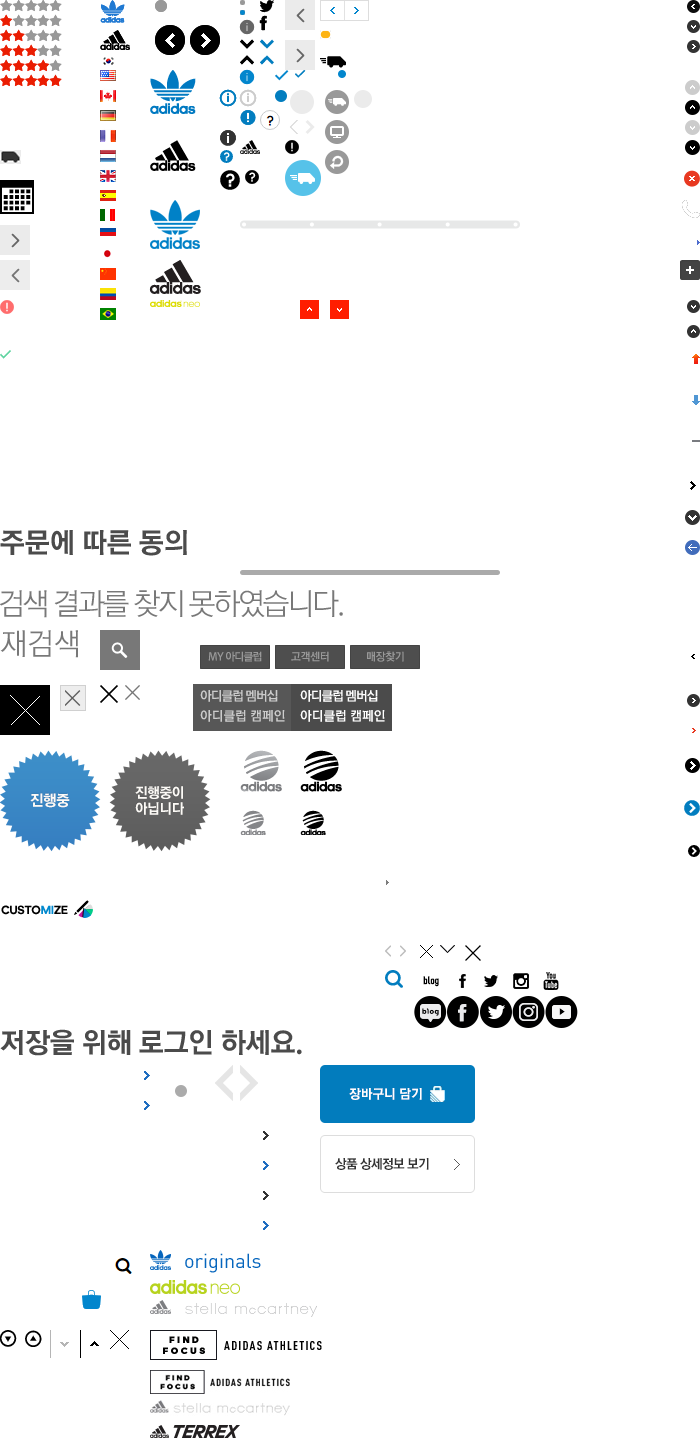
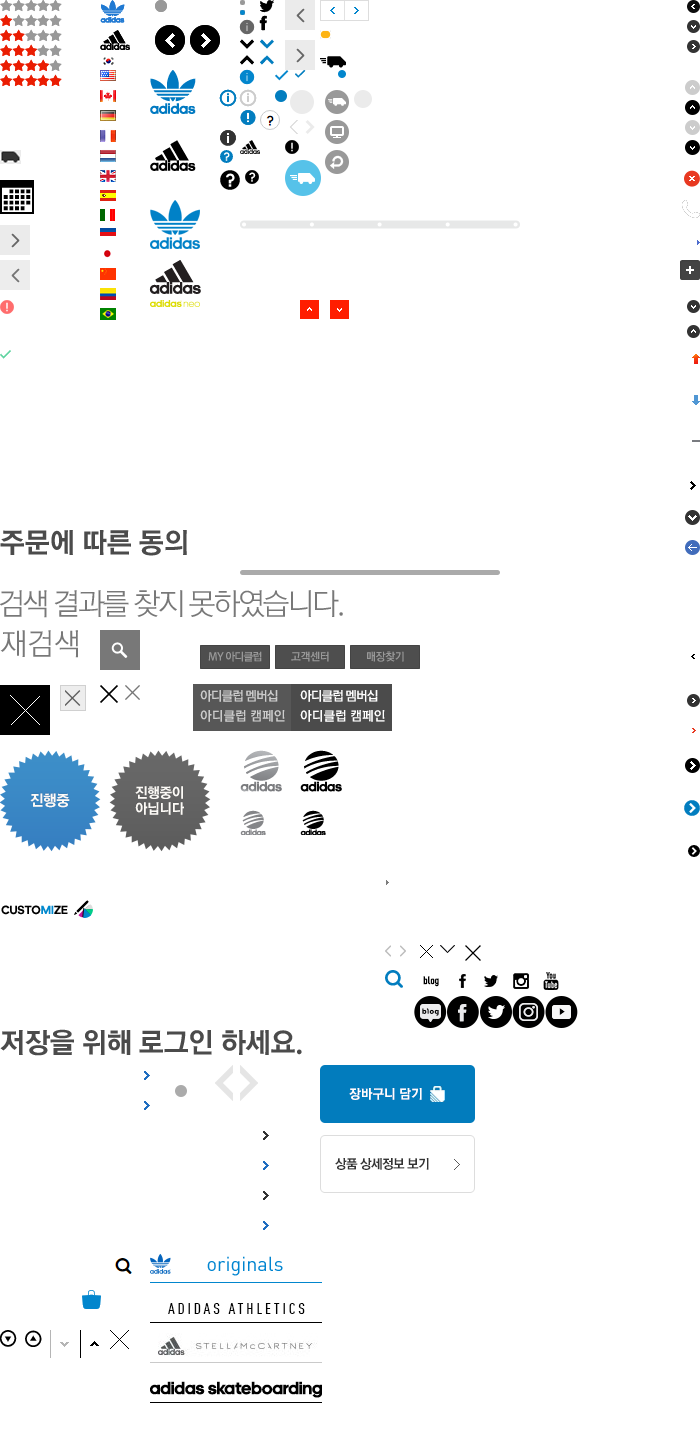
adidas - gnb brands 수정

Changed region(s): [[0.21, 0.8567, 0.45, 1.0]]

diff --git a/app/html/adidas/main_bak_180105.html b/app/html/adidas/main_bak_180105.html
@@ -965,15 +965,18 @@
 						<a href="#">BRANDS</a>
 						<div class="depth2_contents">
 							<div class="ct950">
-								<div class="ctgr_box">								
+								<div class="ctgr_box">
+									<!--
+									170424
+									* col_17 => col_14 로 클래스명 변경
+									  -->
 									<div class="box img_box col_14 originals">
 										<dl>
 											<dt>
 												<a href="#"><span class="spt_bg">Originals</span></a>
 											</dt>
 											<dd>
-												<!-- 180105 브랜드 텍스트 이미지 추가및 코드 파일명수정 -->
-												<div class="img"><a href="#"><img src="/images/adidas/temp/gnb_brands_w01.jpg" alt="" /></a></div>
+												<div class="img"><a href="#"><img src="/images/adidas/temp/gnb_brands_01.jpg" alt="" /></a></div>
 												<ul>
 													<li class="depth3_wrapper">
 														<a href="#">신발</a>
@@ -1004,15 +1007,18 @@
 										</dl>
 									</div>
 									<!-- //box -->
-									
+
+									<!--
+									170424
+									* col_17 => col_14 로 클래스명 변경
+									  -->
 									<div class="box img_box col_14 zne">
 										<dl>
 											<dt>
 												<a href="#"><span class="spt_bg">FIND FOCUS</span></a>
 											</dt>
 											<dd>
-												<!-- 180105 브랜드 텍스트 이미지 추가및 코드 파일명수정 -->
-												<div class="img"><a href="#"><img src="/images/adidas/temp/gnb_brands_w02.png" alt="" /></a></div>
+												<div class="img"><a href="#"><img src="/images/adidas/temp/gnb_brands_02.jpg" alt="" /></a></div>
 												<ul>
 													<li class="depth3_wrapper">
 														<a href="#">신발</a>
@@ -1044,16 +1050,19 @@
 											</dd>
 										</dl>
 									</div>
-									<!-- //box -->
-								
+
+
+									<!--
+									170424
+									* col_17 => col_14 로 클래스명 변경
+									  -->
 									<div class="box img_box col_14 stella">
 										<dl>
 											<dt>
 												<a href="#"><span class="spt_bg">Stella McCartney</span></a>
 											</dt>
 											<dd>
-												<!-- 180105 브랜드 텍스트 이미지 추가및 코드 파일명수정 -->
-												<div class="img"><a href="#"><img src="/images/adidas/temp/gnb_brands_w03.jpg" alt="" /></a></div>
+												<div class="img"><a href="#"><img src="/images/adidas/temp/gnb_brands_03.jpg" alt="" /></a></div>
 												<ul>
 													<li class="depth3_wrapper">
 														<a href="#">신발</a>
@@ -1085,15 +1094,17 @@
 									</div>
 									<!-- //box -->
 
-									<!-- 180105 클래스 skateboard 추가 및 기존 terrex / neo 삭제 -->
-									<div class="box img_box col_14 skateboard">
+									<!--
+									170424
+									* col_17 => col_14 로 클래스명 변경
+									  -->
+									<div class="box img_box col_14 terrex">
 										<dl>
 											<dt>
-												<a href="#"><span class="spt_bg">adidas skateboarding</span></a>
+												<a href="#"><span class="spt_bg">Terrex</span></a>
 											</dt>
 											<dd>
-												<!-- 180105 브랜드 텍스트 이미지 추가및 코드 파일명수정 -->
-												<div class="img"><a href="#"><img src="/images/adidas/temp/gnb_brands_w04.jpg" alt="" /></a></div>
+												<div class="img"><a href="#"><img src="/images/adidas/temp/gnb_brands_04.jpg" alt="" /></a></div>
 												<ul>
 													<li class="depth3_wrapper">
 														<a href="#">신발</a>
@@ -1110,15 +1121,68 @@
 															<a href="#">여성</a>
 															<a href="#">키즈</a>
 														</div>
-													</li>													
+													</li>
+													<li class="depth3_wrapper">
+														<a href="#">용품</a>
+														<div class="depth3">
+															<a href="#">남성</a>
+															<a href="#">여성</a>
+															<a href="#">키즈</a>
+														</div>
+													</li>
 												</ul>
 											</dd>
 										</dl>
 									</div>
 									<!-- //box -->
-									
-									<!-- 180105 우측 컬렉션 주석처리 -->
-									<!-- <div class="box etcbox col_14 last">
+
+									<!--
+									170424
+									* col_17 => col_14 로 클래스명 변경
+									  -->
+									<div class="box img_box col_14 neo">
+										<dl>
+											<dt>
+												<a href="#"><span class="spt_bg">adidas neo</span></a>
+											</dt>
+											<dd>
+												<div class="img"><a href="#"><img src="/images/adidas/temp/gnb_brands_05.jpg" alt="" /></a></div>
+												<ul>
+													<li class="depth3_wrapper">
+														<a href="#">신발</a>
+														<div class="depth3">
+															<a href="#">남성</a>
+															<a href="#">여성</a>
+															<a href="#">키즈</a>
+														</div>
+													</li>
+													<li class="depth3_wrapper">
+														<a href="#">의류</a>
+														<div class="depth3">
+															<a href="#">남성</a>
+															<a href="#">여성</a>
+															<a href="#">키즈</a>
+														</div>
+													</li>
+													<li class="depth3_wrapper">
+														<a href="#">용품</a>
+														<div class="depth3">
+															<a href="#">남성</a>
+															<a href="#">여성</a>
+															<a href="#">키즈</a>
+														</div>
+													</li>
+												</ul>
+											</dd>
+										</dl>
+									</div>
+									<!-- //box -->
+
+									<!--
+									170424
+									* col_17 => col_14 로 클래스명 변경
+									  -->
+									<div class="box etcbox col_14 last">
 										<dl>
 											<dt>컬렉션</dt>
 											<dd>
@@ -1131,7 +1195,7 @@
 												</ul>
 											</dd>
 										</dl>
-									</div> -->
+									</div>
 									<!-- //box -->
 
 								</div>
@@ -1140,10 +1204,15 @@
 								<div class="view_all img_box">
 									<div class="col_14"><a href="#">전체보기</a></div>
 									<div class="col_14"><a href="#">전체보기</a></div>
-									<div class="col_14"><a href="#">전체보기</a></div>									
 									<div class="col_14"><a href="#">전체보기</a></div>
-									<!-- 180105 우측 컬렉션 주석처리 -->								
-									<!-- <div class="col_14 last"><a href="#">캠페인 전체보기</a></div> -->
+									<div class="col_14"><a href="#">전체보기</a></div>
+									<div class="col_14"><a href="#">전체보기</a></div>
+									<!--
+									170424
+									* style 제거 style="width:165px;margin-left:15px;"
+									* col_14 클래스 추가
+									 -->
+									<div class="col_14 last"><a href="#">캠페인 전체보기</a></div>
 								</div>
 							</div>
 							<!-- //ct950 -->
@@ -2383,7 +2452,8 @@
 		     data-modalpop=""
 		     data-modalpop-name="restcustomer-popup"
 		     data-modalpop-width="580"
-			 data-modalpop-fade=""		     
+			 data-modalpop-fade=""
+		     data-modalpop-autoopen=""
 		>
 		    <div class="overlay"></div>
 		    <div class="popup">

diff --git a/app/css/adidas/adidas_r.css b/app/css/adidas/adidas_r.css
@@ -2605,7 +2605,7 @@ div.error .btn {width:700px; height:30px; text-align:center; margin-top:20px;}
 }
 
 #header-20160315 .gnb_menu>ul>li .depth2_contents .col_14{
-	width: 140px;
+	width: 172px;
 }
 
 #header-20160315 .gnb_menu>ul>li .depth2_contents .col_13{
@@ -2701,8 +2701,8 @@ div.error .btn {width:700px; height:30px; text-align:center; margin-top:20px;}
 }
 
 #header-20160315 .gnb_menu>ul>li .depth2_contents .ctgr_box>.img_box dt{
-	border-bottom: 1px solid  #000;
-	padding-bottom: 10px;
+	/* border-bottom: 1px solid  #000; */
+	/* padding-bottom: 10px; */
 	margin-bottom:25px;
 }
 
@@ -2719,14 +2719,14 @@ div.error .btn {width:700px; height:30px; text-align:center; margin-top:20px;}
 }
 
 #header-20160315 .gnb_menu>ul>li .depth2_contents .ctgr_box>.img_box.originals dt{
-	height:17px;
-	border-color: #0565bd;
+	height:30px;
+	/* border-color: #0565bd; */
 }
 
 #header-20160315 .gnb_menu>ul>li .depth2_contents .ctgr_box>.img_box.originals dt .spt_bg{
-	width: 111px;
-	height: 23px;
-	background-position: -150px -1250px;
+	width: 172px;
+	height: 30px;
+	background-position: -150px -1253px;
 	text-indent: -5000px;
 }
 
@@ -2737,45 +2737,54 @@ div.error .btn {width:700px; height:30px; text-align:center; margin-top:20px;}
 }
 
 #header-20160315 .gnb_menu>ul>li .depth2_contents .ctgr_box>.img_box.neo dt .spt_bg{
-	width:90px;
-	height:14px;
-	background-position: -150px -1280px;
+	width: 172px;
+	height: 30px;
+	background-position: -150px -1293px;
+	text-indent: -5000px;
+}
+
+#header-20160315 .gnb_menu>ul>li .depth2_contents .ctgr_box>.img_box.skateboard dt{
+	height:30px;
+}
+
+#header-20160315 .gnb_menu>ul>li .depth2_contents .ctgr_box>.img_box.skateboard dt .spt_bg{
+	width: 172px;
+	height: 30px;
+	background-position: -150px -1373px;
 	text-indent: -5000px;
 }
 
 #header-20160315 .gnb_menu>ul>li .depth2_contents .ctgr_box>.img_box.terrex dt{
-	height:11px;
-	padding-top: 6px;
+	height:30px;
 }
 
 #header-20160315 .gnb_menu>ul>li .depth2_contents .ctgr_box>.img_box.terrex dt .spt_bg{
-	width:90px;
-	height:13px;
-	background-position: -150px -1425px;
+	width: 172px;
+	height: 30px;
+	background-position: -150px -1373px;
 	text-indent: -5000px;
 }
 
 #header-20160315 .gnb_menu>ul>li .depth2_contents .ctgr_box>.img_box.stella dt{
-	height:12px;
-	padding-top: 5px;
+	height:30px;	
 	border-color: #c8cbcc;
 }
 
 #header-20160315 .gnb_menu>ul>li .depth2_contents .ctgr_box>.img_box.stella dt .spt_bg{
-	width:167px;
-	height:17px;
+	width: 172px;
+	height: 30px;
 	background-position: -150px -1300px;
 	text-indent: -5000px;
 }
 
 #header-20160315 .gnb_menu>ul>li .depth2_contents .ctgr_box>.img_box.stella.col_14 dt .spt_bg{
-	width:140px;
-	height:16px;
-	background-position: -150px -1400px;
+	width:172px;
+	height:30px;	
+	background-position: -150px -1333px;
 }
 
 #header-20160315 .gnb_menu>ul>li .depth2_contents .ctgr_box>.img_box.zne dt{
-	padding-bottom: 7px;
+	
 }
 
 #header-20160315 .gnb_menu>ul>li .depth2_contents .ctgr_box>.img_box.zne dt .spt_bg{
@@ -2791,10 +2800,10 @@ div.error .btn {width:700px; height:30px; text-align:center; margin-top:20px;}
 }
 
 #header-20160315 .gnb_menu>ul>li .depth2_contents .ctgr_box>.img_box.zne.col_14 dt .spt_bg{
-	width: 140px;
-	height: 24px;
-	margin-top: -4px;
-	background-position: -150px -1370px;
+	width: 172px;
+    height: 30px;
+    margin-top: 0;
+    background-position: -150px -1293px
 }
 
 #header-20160315 .gnb_menu>ul>li .depth2_contents .ctgr_box .img{
@@ -2835,7 +2844,8 @@ div.error .btn {width:700px; height:30px; text-align:center; margin-top:20px;}
 }
 
 #header-20160315 .gnb_menu>ul>li.col_14 .depth2_contents .ct950{
-	background:url('//image.adidas.co.kr/images/adidas/common/bg_gnb_depth2_line.gif') 794px 0 repeat-y;
+	/* background:url('//image.adidas.co.kr/images/adidas/common/bg_gnb_depth2_line.gif') 794px 0 repeat-y; */
+	background:none;
 }
 
 
